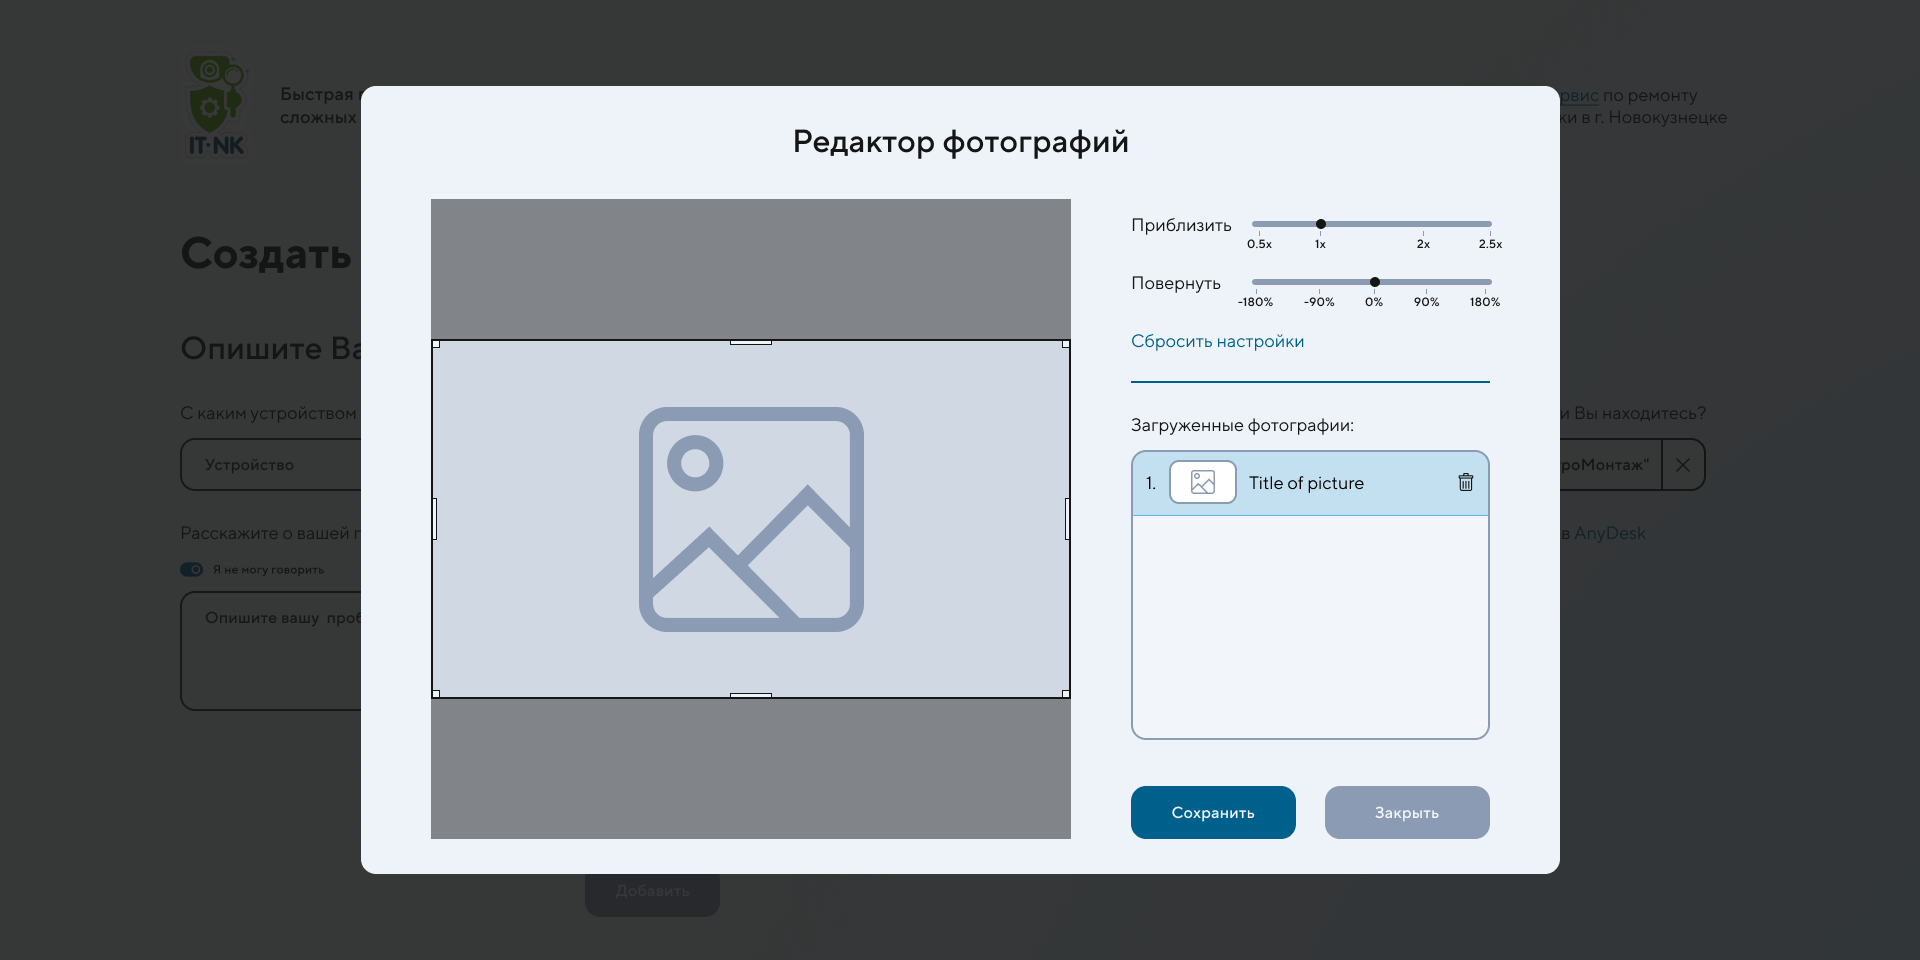
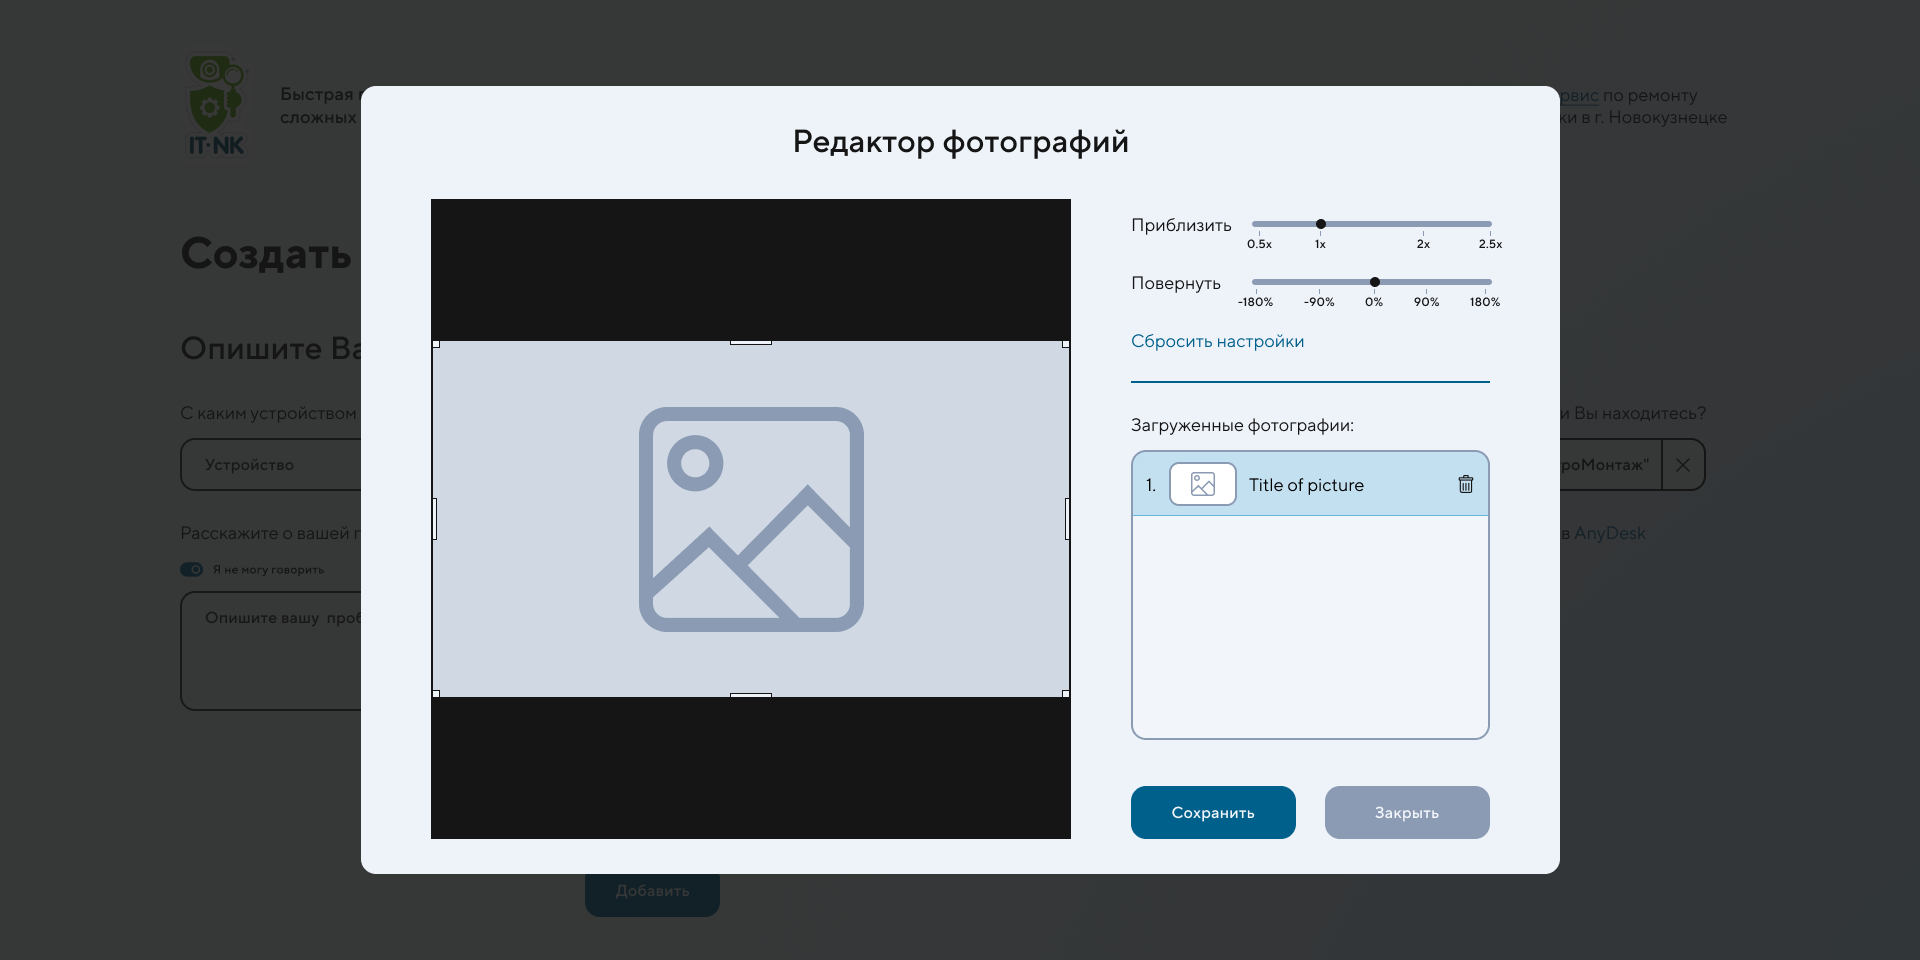
feat: added .env file to git history. changed: README file and photo-editor photo

Changed region(s): [[0.2188, 0.1875, 0.5625, 0.375], [0.2188, 0.7188, 0.5625, 0.875], [0.5938, 0.4688, 0.7188, 0.5312]]

diff --git a/README.md b/README.md
@@ -1,6 +1,6 @@
-## Introduce
+## Introduction
 
-**Solving users' technical issues** is the primary task of a system administrator. The problem in this way is that, in most cases, there is no standardization or recording of the elements involved on this process.
+**Solving users' technical issues** is the primary task of a system administrator. The problem is that, in most cases, there is no standardization or recording of the elements involved on this process.
 Therefore, the application a modern approach to technical support for organizations of various sizes. Standardization of requests, with proper logging of ech technical assistance case, helps reduce service time for clients and provides an overview of the organization's infrastructure by tracking the number of requests.
 The application is implemented as a website, so users can access ot from any device.
 A created technical assistance request is sent to a Telegram group via a locally running [API for Telegram's bot](https://core.telegram.org/bots/api)
@@ -52,26 +52,54 @@ Open [http://localhost:3030](http://localhost:3030) with your browser to see the
 ## Application pages
 
 There are only two pages:
-- Page for user to create a assistance request
-- Page for operator to complete request
+- *Page for user* to create a assistance request (localhost:3030)
+- *Page for operator* to complete request (localhost:3030/[assistance request ID])
 
 ### Root page
 
-On this page user creates  
+On this page, users can create an assistance request.
+The form consist of two parts:
+- User describes his problem:
+    - Device that cause the problem (required)
+    - Description of the problem (required)
+    - Photos of the problem (optional)
+    - Videos of the problem (optional)
+- User's contact info:
+    - Username
+    - User's phone
+    - Organization the user belongs to
+    - User's PC number in [AnyDesk](https://anydesk.com/en)
+
+The user must also agree to the data processing policy of the application. Additionally, the user can indicate that they are available for a callback within 15 minutes after submitting the assistance request.
 
 ![Root page](./app-photos/app-preview.png)
 
 #### Photo editor
 
+Users can not only upload photos of the problem but also edit them. The photo editor is simple yet useful.  
+Photo editor functions:
+- Scale photo - from 0.5x to 2.5x
+- Rotate photo up to 360%
+- Crop photo
+- Delete photo
 
+When the photo editor is opened, temporary settings are created for each photo. The user must click the "Save" button to apply these settings. If the user clicks the "Close" button, the temporary settings will be discarded.
 
 ![Photo editor](./app-photos/photo-editor.png)
 
-
 ### Operator's page
+A unique URL is generated for each assistance request, attached to the request, and sent to Telegram. The unique URL consists of 43 characters and is only available in Telegram. When the operator follows the link, the status of the assistance request automatically changes to **completed**.
+
+There are only two statuses for the request:
+- In processing
+- Completed
+
+Operator can delete the assistance request if there is no any reason to keep it in database.
 
 ![Operator's page](./app-photos/complete-request.png)
 
 ### Not found page
+
+There is only one page for users and operators. If a user tries to access a non-existent path, they will see this template.
 
 ![Not found page](./app-photos/not-found.png)
